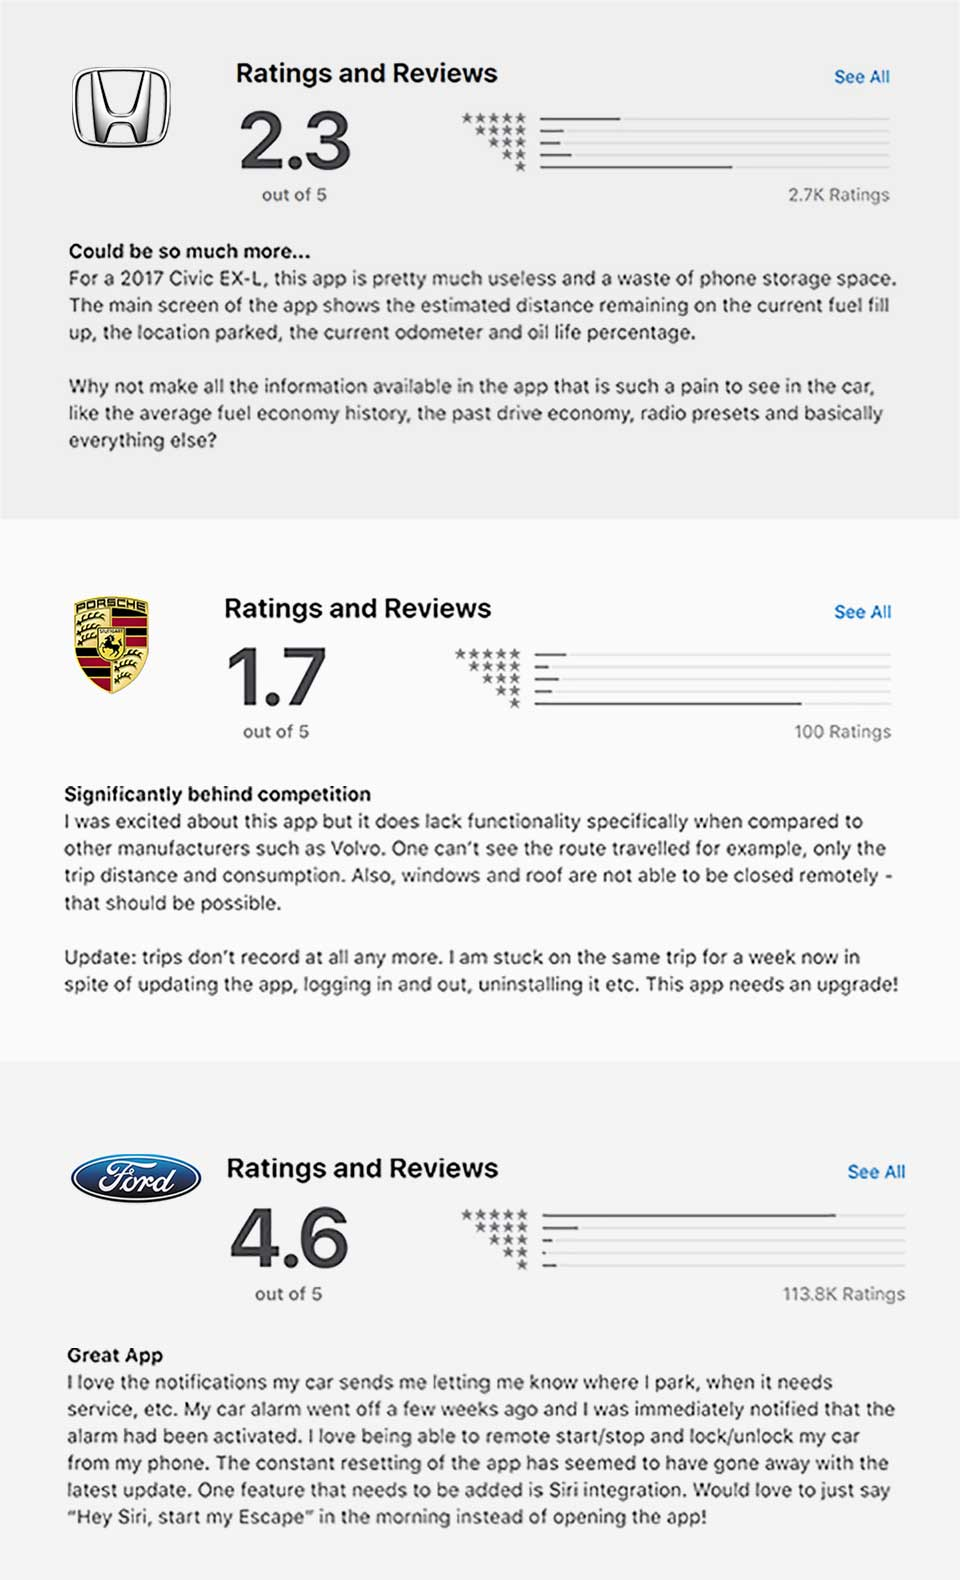
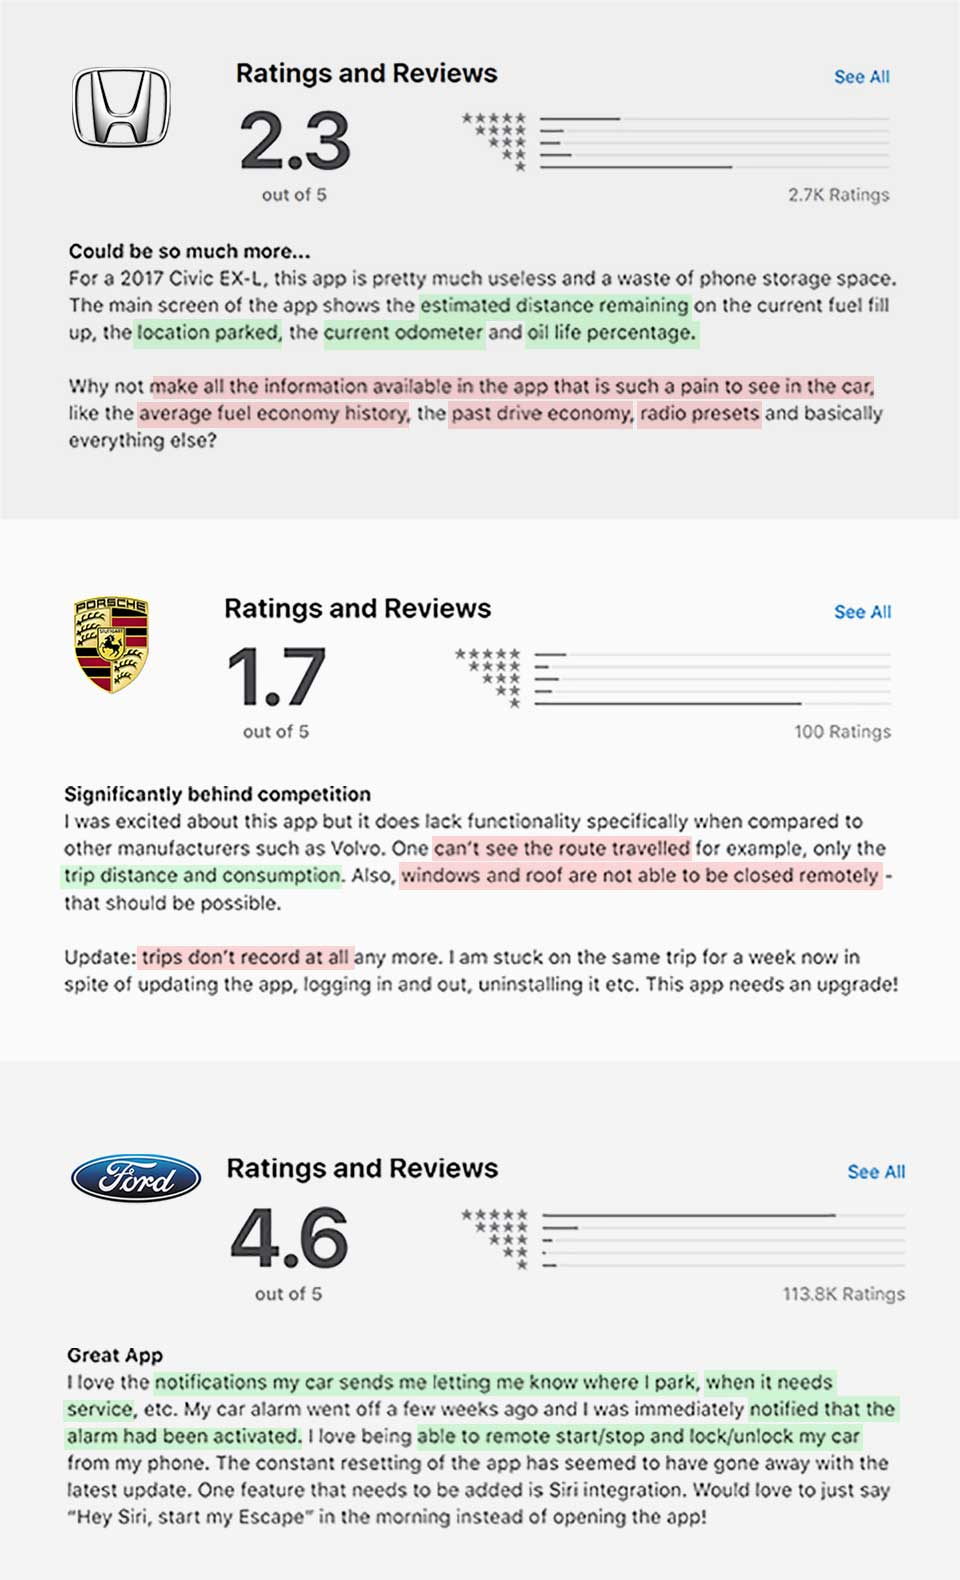
edits to comp analysis section

diff --git a/_posts/portfolio/2020-01-10-vehicle_manager.md b/_posts/portfolio/2020-01-10-vehicle_manager.md
@@ -41,3 +41,5 @@ To start, research was done on apps from three manufacturers: Honda, Porsche, an
 Looking through customer reviews for these apps from both the Apple App Store and Google Play Store helped to surface common customer frustrations. Knowing these issues would help to put more thought into how to address these from a usability standpoint. On the other hand, there were positives to take from the reviews too.
 
 ![Competitive Analsis - Reviews]({{ "/images/portfolio/veh_man/veh_man_03.jpg" }})
+
+Mention highlights of good existing features as well as desired.
